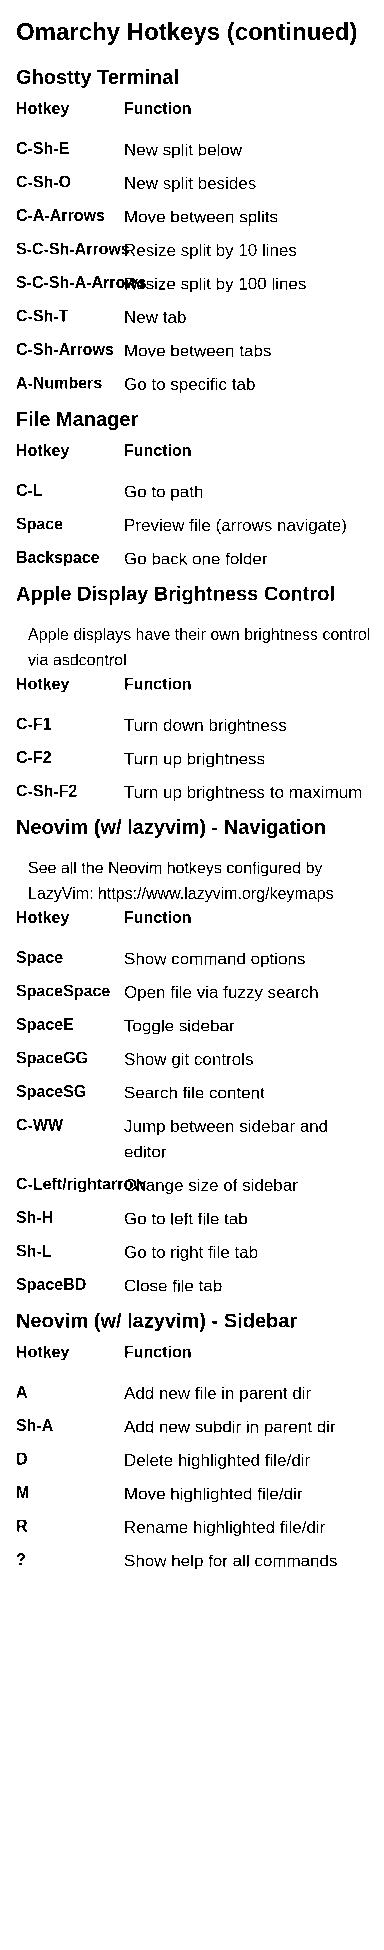
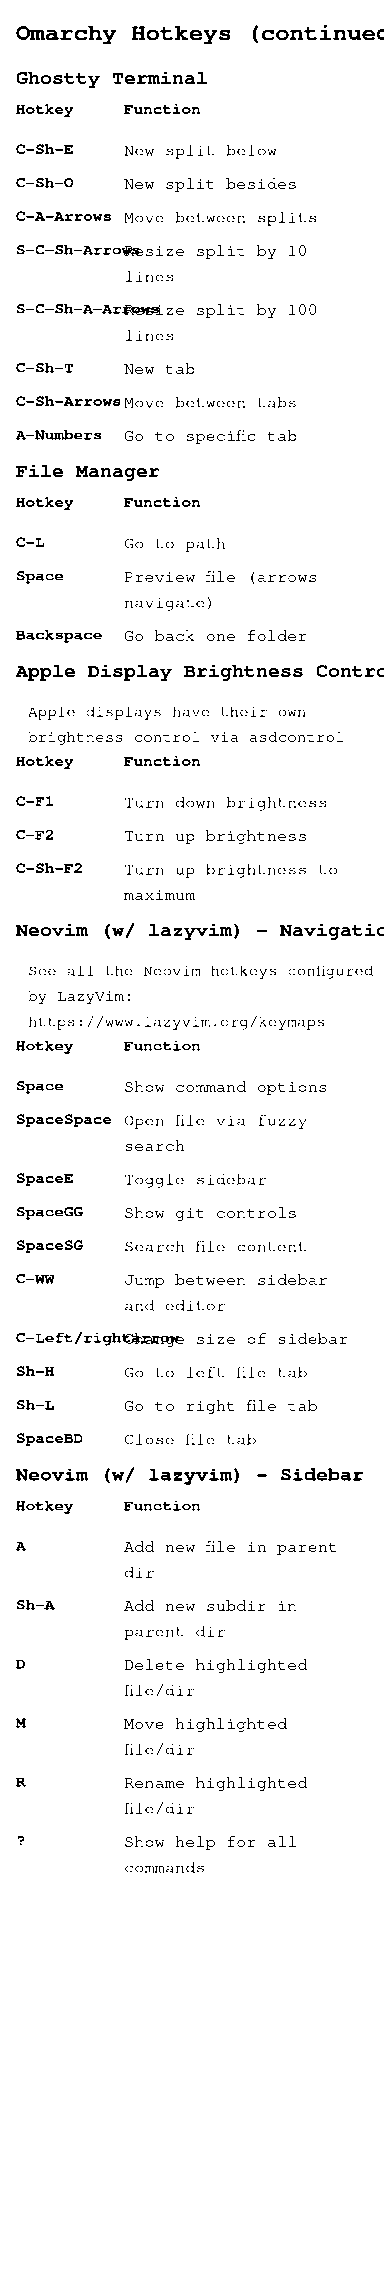
fix: Use Courier font for proper monospace rendering
- Canvas doesn't automatically load system fonts, using built-in Courier
- Courier is universally available in canvas rendering
- Now properly monospace with fixed-width characters
- Much better alignment for abbreviated keys

diff --git a/scripts/generate-png.ts b/scripts/generate-png.ts
@@ -34,7 +34,7 @@ const FONT_SIZE_TITLE = 24;
 const FONT_SIZE_HEADING = 20;
 const FONT_SIZE_TEXT = 17;
 const FONT_SIZE_KEYS = 16;
-const FONT_FAMILY = "JetBrains Mono";
+const FONT_FAMILY = "Courier";
 const LINE_HEIGHT = 1.5;
 const COL_SPACING = 10;
 const MAX_LINES = 60;
